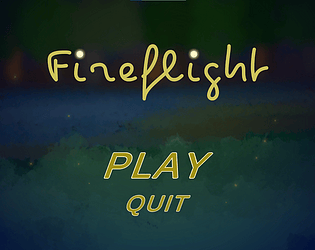
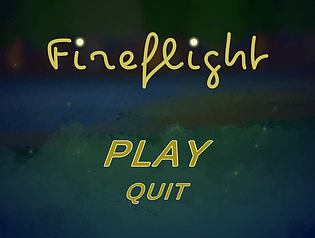
Images and game desc
edited the images to get rid of the little error at the top, added descriptions to games

diff --git a/games.html b/games.html
@@ -68,43 +68,47 @@
         <a href="https://chaffeygamedev.itch.io/eyes-of-the-inferno" class="card">
           <img src="Game Img/Inferno.png" width="250" height="250" />
           <h1 style="text-align: center; max-width: 240px">Eyes of the Inferno</h1>
-          <p style="max-width: 240px"></p>
+          <p style="text-align: center; max-width: 240px; color:brown">
+            They see right through you
+          </p>
         </a>
         <!--Fire Flight-->
         <a href="https://chaffeygamedev.itch.io/fire-flight" class="card">
           <img src="Game Img\Fireflight.png" width="250" height="250" />
           <h1 style="text-align: center; max-width: 240px">Fire Flight</h1>
-          <p style="max-width: 240px"></p>
+          <p style="text-align: center; max-width: 240px">
+            Fly away from the evil bugs in the swamp
+          </p>
         </a>
         <!--Dr Radiant-->
         <a href="https://chaffeygamedev.itch.io/dr-radiant" class="card">
           <img src="Game Img\DrRadient.png" width="250" height="250" />
           <h1 style="text-align: center; max-width: 240px">Dr. Radiant</h1>
-          <p style="max-width: 240px">Made in a short game jam with 8 people</p>
+          <p style="text-align: center; max-width: 240px">
+            Play as a Doctor helping out their patients
+          </p>
         </a>
         <!--Kowboy Kitty-->
         <a href="https://chaffeygamedev.itch.io/kowboy-kitty" class="card">
           <img src="Game Img\KowboyKitty.png" width="250" height="250" />
           <h1 style="text-align: center; max-width: 240px">Kowboy Kitty</h1>
-          <p style="max-width: 240px">
-            Cool cat game! Made in the 2024 Global Game Jam
+          <p style="text-align: center; max-width: 240px">
+            Play as a cowboy and try to escape from bounty hunters
           </p>
         </a>
         <!--Banana Killer-->
         <a href="https://chaffeygamedev.itch.io/killerbanana" class="card">
           <img src="Game Img\killerBanana.png" width="250" height="250" />
           <h1 style="text-align: center; max-width: 240px">Banana Killer</h1>
-          <p style="max-width: 240px">
-            This game was created for the Nokia 3310 Game Jam of 2023.
+          <p style="text-align: center; max-width: 240px">
+            Swap dimensions to open a path away from the evil banana man
           </p>
         </a>
         <a href="https://chaffeygamedev.itch.io/seed-of-light" class="card">
           <img src="Game Img\SeedofLight.png" width="250" height="250" />
           <h1 style="text-align: center; max-width: 240px">Seed of Light</h1>
-          <p style="max-width: 240px">
-            Seed of Light is a short puzzle platformer game where you traverse
-            obstacles and enemies and utilize a few seed-planting abilities to
-            create terrain to proceed to the end and obtain the golden acorn!
+          <p style="text-align: center; max-width: 240px">
+            Use seed-planting abilities to create terrain to obtain the golden acorn
           </p>
         </a>
         <a
@@ -115,7 +119,9 @@
           <h1 style="text-align: center; max-width: 240px">
             Easter Bunny Dating Sim
           </h1>
-          <p style="max-width: 240px">Idk dawg</p>
+          <p style="text-align: center; max-width: 240px">
+            Idk dawg
+          </p>
         </a>
         <a
           href="https://chaffeygamedev.itch.io/spacecat-knifeparty"
@@ -125,8 +131,8 @@
           <h1 style="text-align: center; max-width: 240px">
             SpaceCat KnifeParty
           </h1>
-          <p style="max-width: 240px">
-            A short retro-style space cat shooter game.
+          <p style="text-align: center; max-width: 240px">
+            Retro-style space cat shooter game
           </p>
         </a>
       </section>

diff --git a/about.html b/about.html
@@ -74,11 +74,6 @@
         <p>Samuel Kramer</p>
       </a>
       <a class="cardNon">
-        <img src="Assets/Officer Photos/Angela.JPG" width="400"/>
-        <h1>Secretary</h1>
-        <p>Angela Ybarra</p>
-      </a>
-      <a class="cardNon">
         <img src="Assets/Officer Photos/Lizzy.JPG" width="400"/>
         <h1>Treasurer</h1>
         <p>Lizzy Mak</p>
@@ -89,14 +84,20 @@
         <p>Luna Chavez</p>
       </a>
       <a class="cardNon">
+        <img src="Assets/Officer Photos/Angela.JPG" width="400"/>
+        <h1>Secretary</h1>
+        <p>Angela Ybarra</p>
+      </a>
+      <a class="cardNon">
         <img src="#" width="400"/>
         <h1>Club Advisor</h1>
         <p>Dr Tracy</p>
       </a>
     </section>
-    <!--Leads-->
+    <!--Leads
     <section style="text-align: center;padding: 2rem;">
       <h1>What is Game Design?</h1>
+      
       <p style="font-size: large;">
         Game development is the processes of creating video games but many
         don't know all the aspects that go into it. Programming is one of
@@ -104,6 +105,7 @@
         live. Art can be expressed lively and so creatively with different
         art styles and in 2-D or 3-D art takes the breath away from players.
       </p>
+      -->
     </section>
 
     <!--Footer-->
